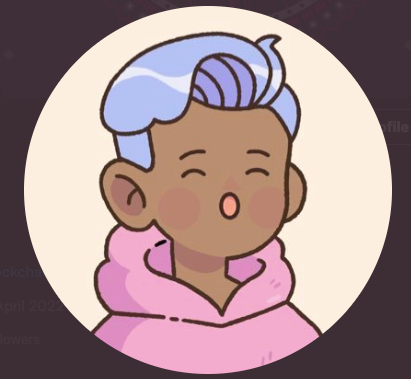
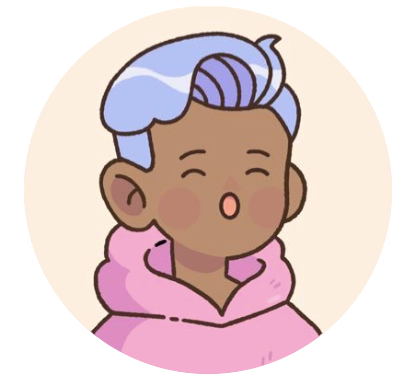
update: pfp

diff --git a/src/pages/_app.tsx b/src/pages/_app.tsx
@@ -7,8 +7,9 @@ export default function App({ Component, pageProps }: AppProps) {
     <>
       <Head>
         <meta name="viewport" content="width=device-width, initial-scale=1" />
-        <title>imaty | ポートフォリオ</title>
-        <meta name="description" content="imatyの職務経歴・スキル・プロジェクトを紹介するシンプルなポートフォリオサイトです。" />
+        <title>imaty | Portfolio</title>
+        <meta name="description" content="imaty's portfolio" />
+        <link rel="icon" href="/profile/profile.png" />
       </Head>
       <main className="min-h-screen py-10 px-4 max-w-2xl mx-auto">
         <Component {...pageProps} />
